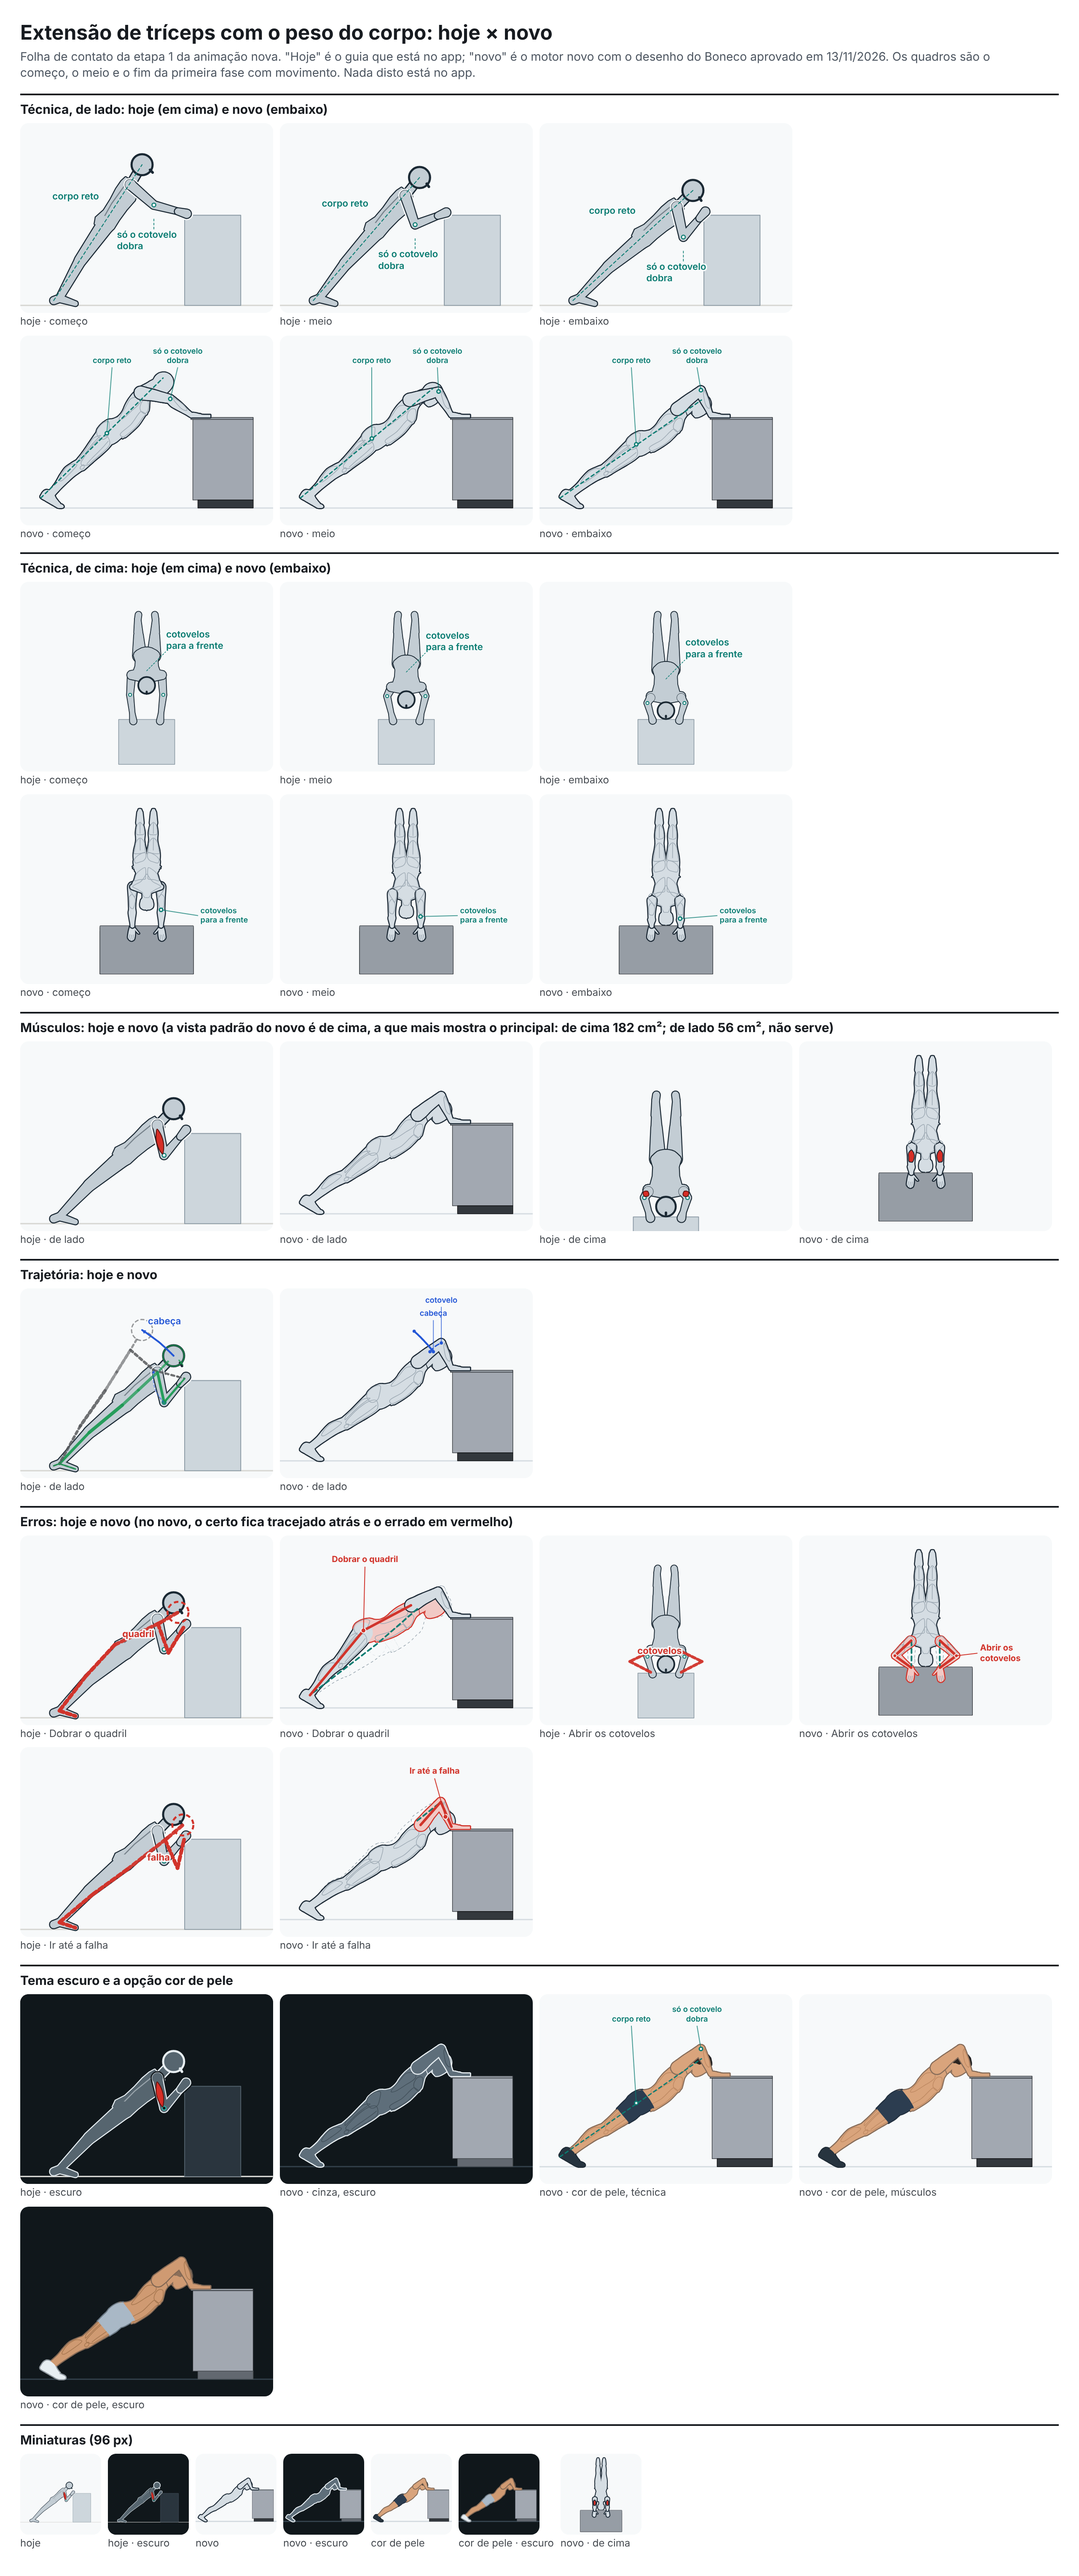
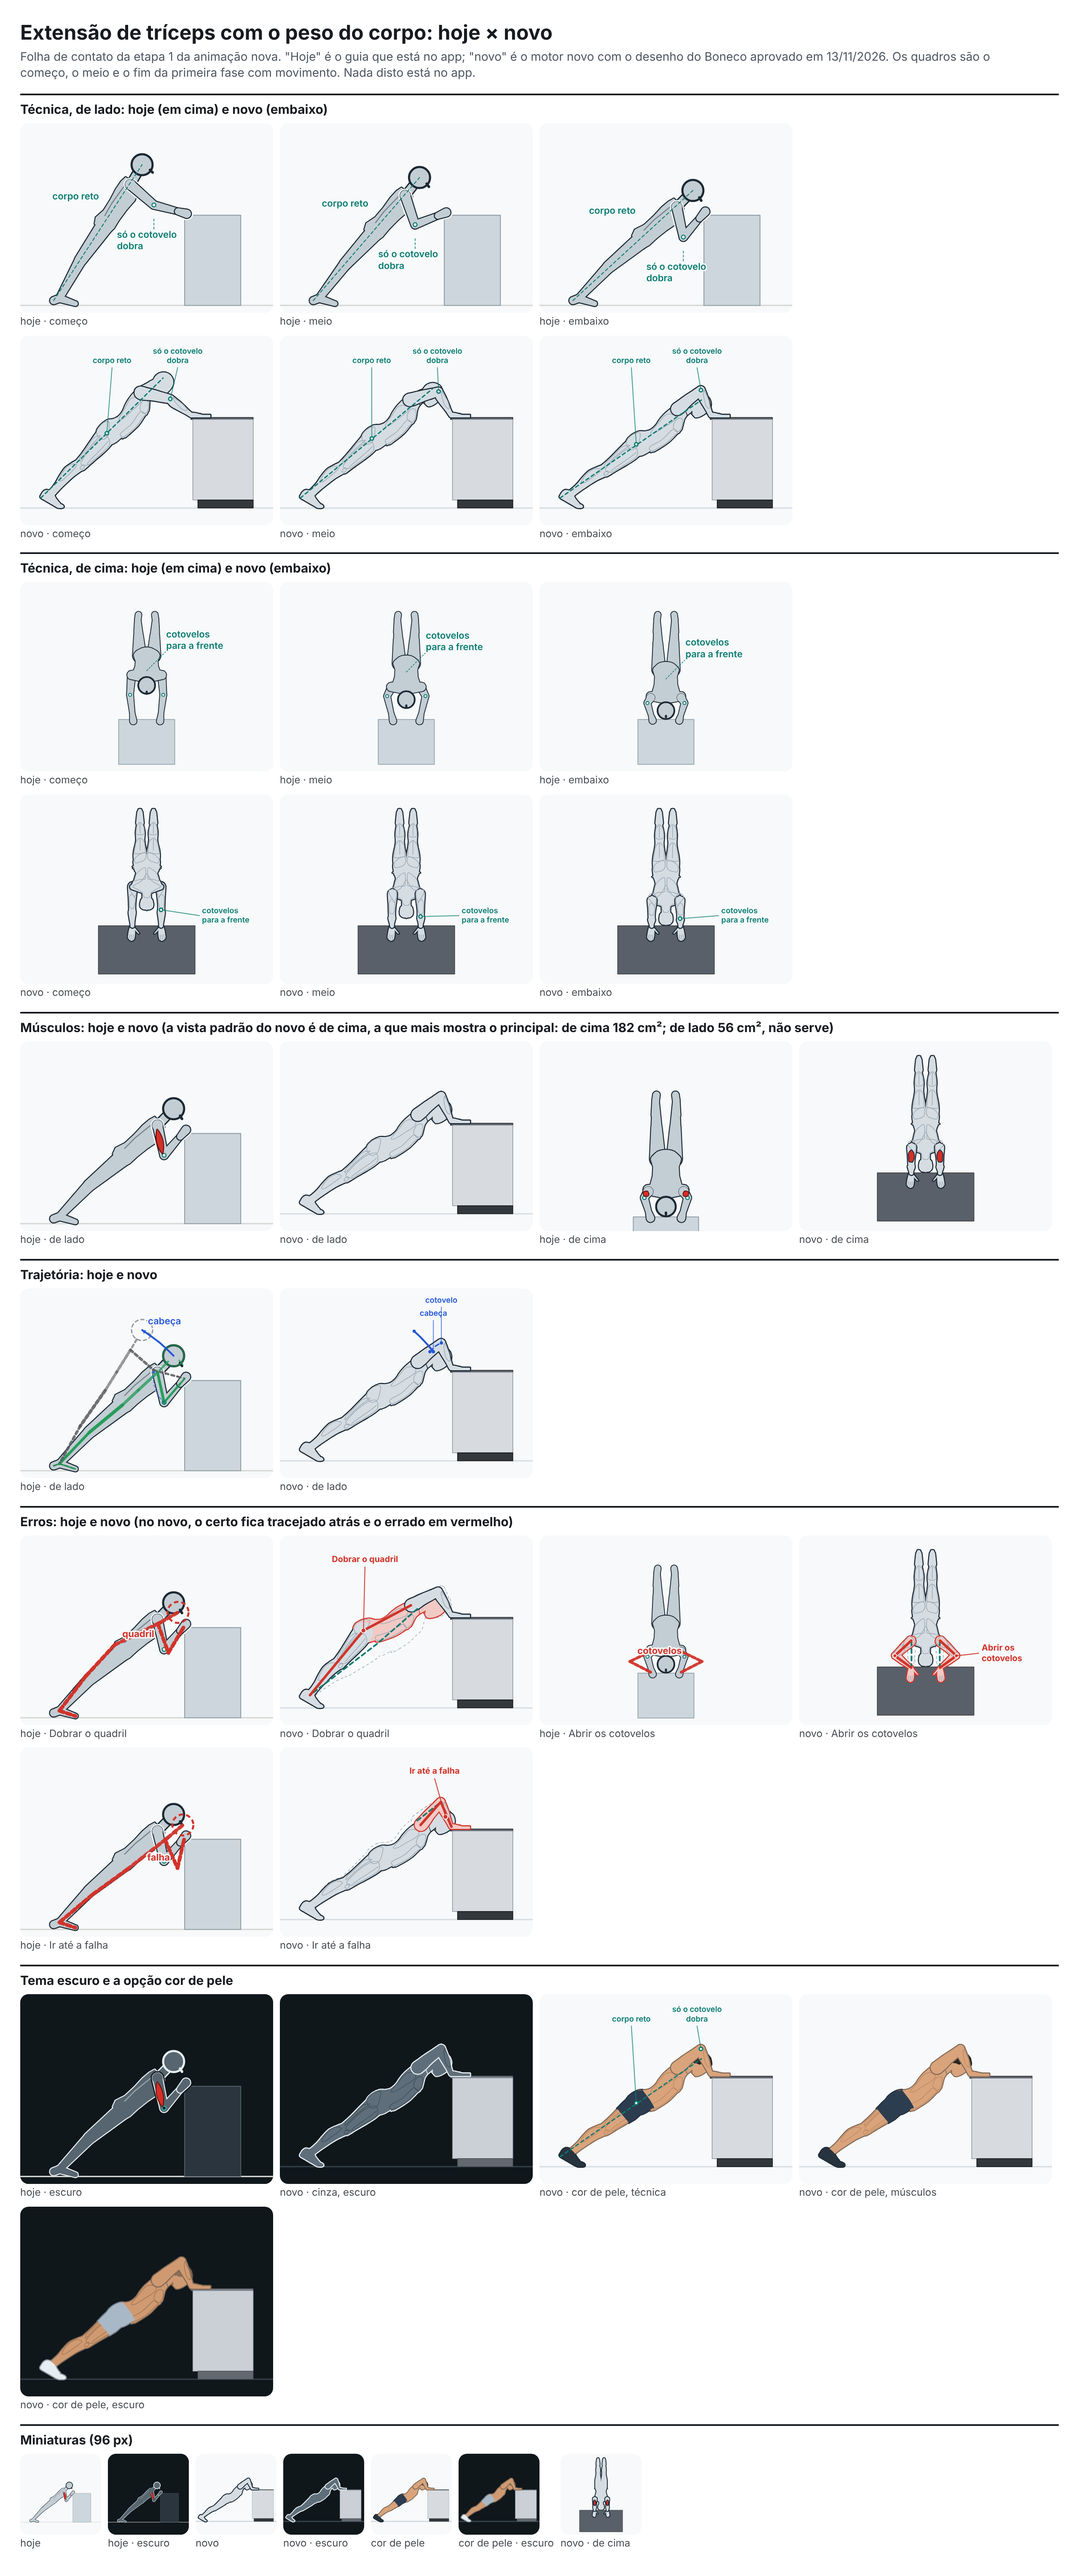
Correção da extensão de tríceps: bancada de cozinha com volume, gaveta e portas
Claude-Session: https://claude.ai/code/session_01YRzts7dTzBdkrmTDEnq8bW

diff --git a/src/engine/novo/pecas-de-cena/bancada.ts b/src/engine/novo/pecas-de-cena/bancada.ts
@@ -3,12 +3,16 @@
 // para −z (para a pessoa); `zBeirada` é onde fica a beirada do tampo, do lado da pessoa.
 import type { Prim } from '../desenho';
 import type { PecaPropria } from '../pecas';
-import { retArred } from '../realista/base.mjs';
+import { mix } from '../realista/base.mjs';
+import type { Material } from '../realista/base.mjs';
 import { obj } from '../tabelas';
 import { REF0 } from '../vec';
 import type { V3 } from '../vec';
 
 const b = (id: string) => obj('bancada', id);
+/** O laminado claro das portas e o tampo de pedra escura (quatro tons: sombra, meio, luz, traço). */
+const LAMINADO: Material = ['#B4BAC1', '#CDD2D7', '#E6E9EC', '#7F8790'];
+const PEDRA: Material = ['#2E3238', '#4A4F57', '#737A83', '#1B1D21'];
 const caixa = (o: V3, meias: V3, cls: string, vies: number): Prim => ({ t: 'caixa', ref: { ...REF0, o }, meias, cls, vies });
 
 /** A bancada com a beirada do tampo em z = zBeirada, centrada em x = 0. */
@@ -31,13 +35,31 @@ export function bancada(zBeirada: number): { prims: Prim[]; peca: PecaPropria } 
     nome: 'bancada',
     fixa: zBeirada,
     desenhar(C, M, o) {
-      // um prisma de base retangular deitada (largura em x, profundidade em z), do pé até a altura h
-      const bloco = (y0: number, h: number, z0: number, d: number, mat: string[], r = 0.4) => C.prisma(retArred(larg, d, r, 2), [0, y0, z0 + d / 2], [1, 0, 0], [0, 0, 1], [0, h, 0], mat);
-      bloco(0, rod, zFrente + recuo, prof - recuo, M.borracha);
-      bloco(rod, alt - esp - rod, zFrente, prof, M.metalClaro);
-      bloco(alt - esp, esp, zBeirada, prof + bal, M.plataforma, 0.8);
-      // a junta entre as duas portas do gabinete, na frente
-      C.linha([0, rod + 2, zFrente - 0.05], [0, alt - esp - 2, zFrente - 0.05], M.metalClaro[3], 0.4);
+      const claro = o.tema === 'claro';
+      const tom = (m: Material): Material => (claro ? m : m.map((t) => mix(t, '#aeb8c2', 0.3)));
+      const PORTA = tom(LAMINADO),
+        TAMPO = tom(PEDRA),
+        Y: V3 = [0, 1, 0];
+      // caixa em pé, de y0 a y1, centrada em (x, z), com largura `w` em x e profundidade `d` em z: as quatro faces de
+      // pé são as laterais do prisma (as que o gerador sombreia pela luz)
+      const caixaY = (x: number, z: number, y0: number, y1: number, w: number, d: number, mat: Material) => C.tubo([x, y0, z], [x, y1, z], w, d, mat, { up: [0, 0, 1] });
+      // o rodapé recuado, escuro, e o corpo do gabinete
+      caixaY(0, zFrente + recuo + (prof - recuo) / 2, 0, rod, larg - 1, prof - recuo, M.borracha);
+      caixaY(0, zFrente + prof / 2, rod, alt - esp, larg, prof, PORTA);
+      // a frente: uma gaveta em cima e duas portas, marcadas pelas juntas e por puxadores finos. Só aparecem quando a
+      // frente da bancada está virada para quem olha (desenhadas como peças à parte, elas vazariam pelo lado)
+      const frenteAVista = C.P([0, alt / 2, zFrente])[2] < C.P([0, alt / 2, zFrente + prof])[2] - 1;
+      if (frenteAVista) {
+        const yJunta = alt - esp - 15,
+          zf = zFrente - 0.1,
+          junta = PORTA[3]!;
+        C.linha([-larg / 2 + 0.5, yJunta, zf], [larg / 2 - 0.5, yJunta, zf], junta, 0.5);
+        C.linha([0, rod + 0.5, zf], [0, yJunta, zf], junta, 0.5);
+        const puxa = (a2: V3, b2: V3) => C.cilindro(a2, b2, 0.6, M.cromo, { lados: 8 });
+        puxa([-12, yJunta + 7.5, zFrente - 0.8], [12, yJunta + 7.5, zFrente - 0.8]);
+        for (const s2 of [-1, 1]) puxa([s2 * 4, yJunta - 14, zFrente - 0.8], [s2 * 4, yJunta - 4, zFrente - 0.8]);
+      }
+      C.tubo([0, alt - esp / 2, zBeirada], [0, alt - esp / 2, zFrente + prof], larg + 2 * bal, esp, TAMPO, { up: Y });
       if (o.comSombra) C.sombra(0, zFrente + prof / 2, larg / 2, prof / 2 + 4, 0.16);
     },
   };

diff --git a/docs/revisoes/animacao-nova/lote-2/extensao-triceps-peso-corpo.md b/docs/revisoes/animacao-nova/lote-2/extensao-triceps-peso-corpo.md
@@ -1,6 +1,6 @@
 # Lote 2 · Extensão de tríceps com o peso do corpo (`extensao-triceps-peso-corpo`)
 
-De 15/11/2026. Mãos espalmadas no tampo de uma bancada de cozinha (90 cm), junto da beirada; pés para trás, na ponta; corpo reto e inclinado. Só os cotovelos dobram, apontando para a frente, até a testa chegar perto da bancada. **Ainda não foi vista pelo Gustavo.** Não está ligada às telas do app.
+De 15/11/2026; corrigida na rodada do mesmo dia (seção "Rodada de correção" no fim). Mãos espalmadas no tampo de uma bancada de cozinha (90 cm), junto da beirada; pés para trás, na ponta; corpo reto e inclinado. Só os cotovelos dobram, apontando para a frente, até a testa chegar perto da bancada. **Ainda não foi vista pelo Gustavo.** Não está ligada às telas do app.
 
 - Ficha da técnica: `docs/pesquisa/animacoes/extensao-triceps-peso-corpo.md`. Cartão: `src/conteudo/exercicios/extensao-triceps-peso-corpo.json` (só leitura).
 - Ficha de movimento: `src/engine/novo/dados/movimentos/extensao-triceps-peso-corpo.json`.
@@ -61,7 +61,7 @@ O ritmo fica suave (salto de 9,3%), e o corpo não entra na bancada (0 cm).
 
 Ficaram **provisórias** (`a-conferir`): quanto o tampo passa da frente do gabinete (2 cm) e o recuo do rodapé (5 cm). A largura desenhada (120 cm) é escolha de desenho.
 
-Hoje a bancada é uma caixa `BOX` lisa a 90 cm. A peça nova é desenhada com o gerador realista, e a peça de hoje não tinha cartão.
+Hoje a bancada é uma caixa `BOX` lisa a 90 cm. A peça nova sai do gerador realista, como o banco e a cadeira. O gabinete e o rodapé são prismas de pé, com as faces sombreadas pela luz. O tampo é de pedra escura e passa um pouco da frente. A frente tem uma gaveta e duas portas, marcadas por juntas e puxadores cromados, e só aparece quando está virada para quem olha. Desenhadas como peças à parte, as portas vazavam pelo lado da bancada na vista de três quartos.
 
 ## Correções já feitas que esta animação respeita (`correcoes-ja-feitas.md`)
 
@@ -71,8 +71,23 @@ Hoje a bancada é uma caixa `BOX` lisa a 90 cm. A peça nova é desenhada com o 
 
 ## O que não ficou bom
 
-- **A pose é bem diferente da de hoje, que foi aprovada.** Hoje o corpo fica mais em pé (32° a 47°), o cotovelo desce abaixo da beirada e o braço não chega acima da cabeça (cerca de 81° em relação ao tronco). Aqui o corpo fica mais deitado (42° a 52°), os pés mais longe (132 contra ~112 cm) e o braço vai à linha do tronco (178°), que é o que a ficha pede ("braços acima da cabeça"). Este é o maior risco desta folha.
-- **As mãos estão espalmadas, e não segurando a beirada.** Espalmada, a mão fica parada e a conferência mede o contato. Segurando a quina, o punho giraria em volta dela.
-- **A elevação do braço (178°) e a supinação do antebraço (94°)** passam da média. São avisos, e vale um olhar de quem conhece o exercício.
-- **De lado, embaixo, a cabeça some entre os braços,** perto da quina, e o rótulo "só o cotovelo dobra" fica em cima do cotovelo, junto da cabeça.
-- **O tríceps não aparece de lado:** o modo Músculos abre de cima.
+- **A pose é diferente da de hoje, que foi aprovada.** Hoje o corpo fica mais em pé (32° a 47°), o cotovelo desce abaixo da beirada e o braço fica a cerca de 81° do tronco. Aqui o corpo fica mais deitado (42° a 52°), os pés mais longe (132 contra ~112 cm) e o braço vai à linha do tronco (178°).
+  - A ficha exige a diferença: "embaixo, braços acima da cabeça", e a vantagem do exercício (um estudo, `maeo2023`) depende dessa posição do ombro.
+  - As amplitudes também exigem: com os pés a 112 cm e o braço acima da cabeça, o cotovelo passa à frente da mão, e o punho espalmado dobra 109° (o máximo observado é 95°: falha). Com os pés a 125 cm, o punho chega a 80° (aviso).
+  - Voltar para a pose de hoje deixaria o braço a cerca de 81° do tronco, contra o que a ficha pede. Por isso não voltei.
+- **Avisos que ficam:** elevação do braço de 178°, acima da média de 170° (é o "braço na linha do tronco" que a ficha pede); supinação do antebraço de 94°, a medida do motor para a mão espalmada com o cotovelo para a frente.
+- **De lado, embaixo, a cabeça fica atrás do braço de perto.** É inevitável de perfil, com os braços dos dois lados da cabeça. Ela aparece na vista de cima, entre os antebraços (na cor de pele, o cabelo).
+
+## Rodada de correção (15/11/2026)
+
+O que mudou:
+
+- **A bancada.** Era uma caixa cinza chapada; agora tem volume e luz, tampo de pedra, gaveta, duas portas com puxadores e rodapé recuado (ver "O equipamento").
+- **As mãos.** Reli a ficha e o cartão: "Mãos num apoio fixo" e "Mãos no apoio na largura dos ombros". Nenhum dos dois fala em segurar a beirada (só a animação de hoje punha as mãos "na beirada"). As mãos continuam espalmadas no tampo, junto da beirada.
+- **As vistas.** Testei `lateral`, `quina`, `quinaTras` e `cima`.
+  - A `quina` mostra a cabeça, mas a bancada fica na frente do corpo e o tríceps não aparece.
+  - A `quinaTras` mostra bem a bancada e os cotovelos, mas o tríceps quase some, e o modo Músculos voltaria para a vista de lado, onde ele não aparece.
+  - Fiquei com `lateral` (o corpo reto e o cotovelo dobrando) e `cima`. De cima se vê a cabeça descendo entre os antebraços, os cotovelos para a frente e o tríceps, 182 cm² dele visíveis contra 56 de lado. Os quadros grandes trazem também uma `quinaTras` em cor de pele, só para mostrar a bancada.
+- **A pose contra a de hoje.** Mantida, pelos motivos de "O que não ficou bom".
+- **Rótulos.** Dois de lado ("corpo reto", "só o cotovelo dobra") e um de cima ("cotovelos para a frente"), em minúsculas, sem ponto.
+- **Nove itens da seção 8.** Olhei quadro a quadro, com a cor de pele e o tema escuro (`../quadros/extensao-triceps-peso-corpo.png`).
